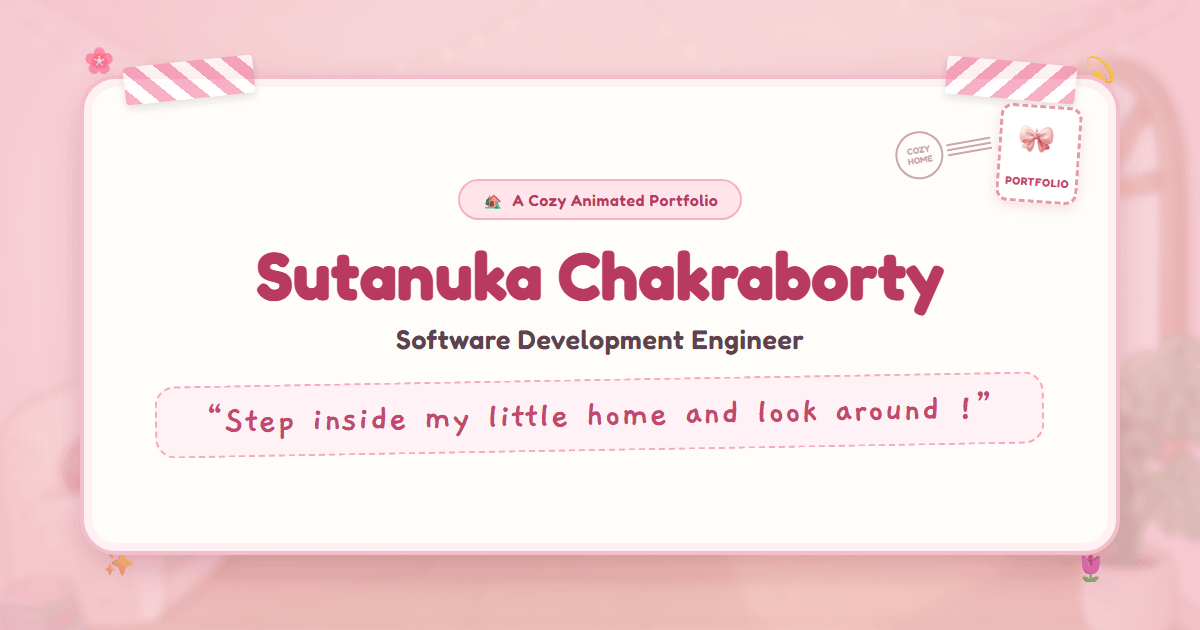
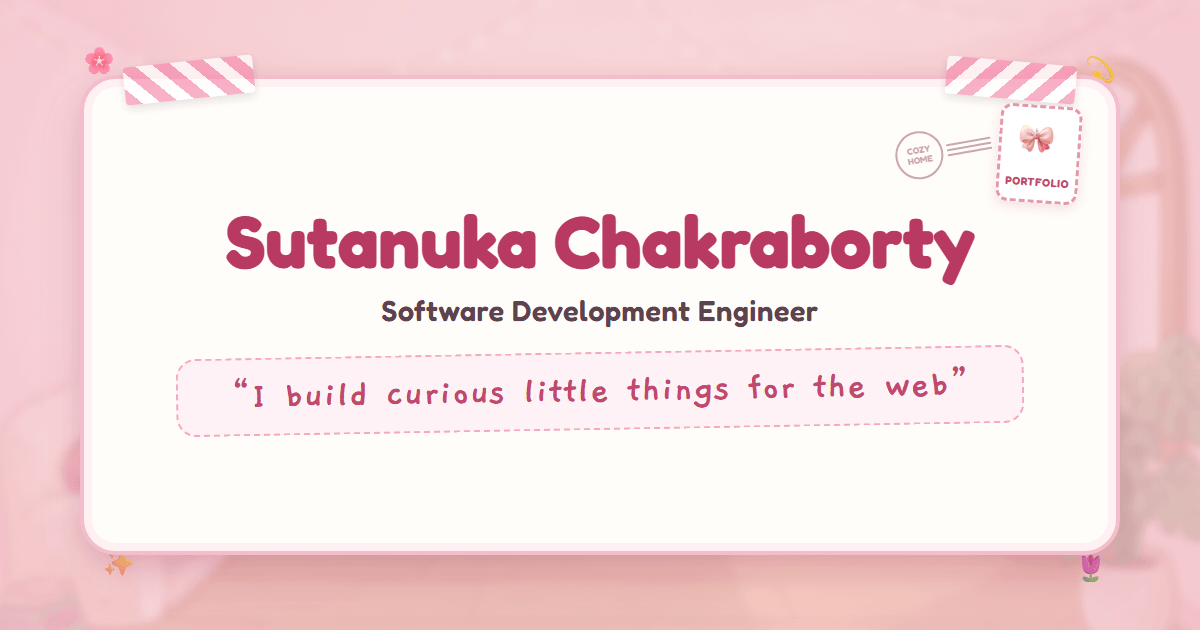
Update OG image: remove top pill tag and update quote to 'I build curious little things for the web'

Changed region(s): [[0.185, 0.2714, 0.8325, 0.573], [0.1542, 0.573, 0.8633, 0.6937], [0.1233, 0.6032, 0.1542, 0.6333]]

diff --git a/scripts/generate-og.js b/scripts/generate-og.js
@@ -186,55 +186,38 @@ async function generate() {
       border-radius: 1px;
     }
 
-    /* Tag / Eyebrow */
-    .tagline-pill {
-      display: inline-flex;
-      align-items: center;
-      gap: 8px;
-      background: #FFE4EC;
-      color: #B83A62;
-      font-size: 16px;
-      font-weight: 600;
-      padding: 8px 22px;
-      border-radius: 999px;
-      border: 2px solid #F9AFC4;
-      margin-bottom: 18px;
-      letter-spacing: 0.5px;
-    }
-
     /* Main Name */
     .name-title {
-      font-size: 68px;
+      font-size: 74px;
       font-weight: 700;
       color: #B83A62;
       letter-spacing: -0.5px;
       line-height: 1.1;
-      margin-bottom: 10px;
+      margin-bottom: 12px;
       text-shadow: 0 2px 4px rgba(255, 255, 255, 0.8);
     }
 
     /* Role */
     .role-title {
-      font-size: 27px;
+      font-size: 29px;
       font-weight: 600;
       color: #5D434D;
       letter-spacing: 0.5px;
-      margin-bottom: 16px;
+      margin-bottom: 24px;
     }
 
     /* Gaegu handwritten note */
     .handwritten-note {
       font-family: 'Gaegu', cursive;
-      font-size: 38px;
+      font-size: 40px;
       font-weight: 700;
       color: #C2486E;
       background: #FFF2F6;
-      padding: 10px 36px;
+      padding: 12px 40px;
       border-radius: 20px;
       border: 2px dashed #F5A9BD;
       transform: rotate(-1deg);
       display: inline-block;
-      margin-top: 8px;
       letter-spacing: 0.5px;
     }
   </style>
@@ -266,16 +249,11 @@ async function generate() {
       <span class="post-stamp-label">PORTFOLIO</span>
     </div>
 
-    <div class="tagline-pill">
-      <span>🏡</span>
-      <span>A Cozy Animated Portfolio</span>
-    </div>
-
     <h1 class="name-title">Sutanuka Chakraborty</h1>
     <h2 class="role-title">Software Development Engineer</h2>
 
     <div class="handwritten-note">
-      “Step inside my little home and look around !”
+      “I build curious little things for the web”
     </div>
   </div>
 </body>
@@ -292,15 +270,24 @@ async function generate() {
   execSync(cmd, { stdio: 'inherit' });
 
   // Now optimize to public/assets/og/og-image.png under 300KB
-  const targetOgPath = path.resolve('public/assets/og/og-image.png');
+  const targetOgPngPath = path.resolve('public/assets/og/og-image.png');
   await sharp(rawScreenshotPath)
     .resize(1200, 630)
     .png({ quality: 90, compressionLevel: 9 })
-    .toFile(targetOgPath);
+    .toFile(targetOgPngPath);
 
-  const stats = fs.statSync(targetOgPath);
-  console.log(`Generated OG Image at ${targetOgPath}`);
-  console.log(`File size: ${(stats.size / 1024).toFixed(2)} KB (WhatsApp requirement: <300 KB)`);
+  // Also output high-performance JPEG
+  const targetOgJpgPath = path.resolve('public/assets/og/og-image.jpg');
+  await sharp(rawScreenshotPath)
+    .resize(1200, 630)
+    .jpeg({ quality: 92, mozjpeg: true })
+    .toFile(targetOgJpgPath);
+
+  const pngStats = fs.statSync(targetOgPngPath);
+  const jpgStats = fs.statSync(targetOgJpgPath);
+  console.log(`Generated OG Images:`);
+  console.log(`PNG: ${(pngStats.size / 1024).toFixed(2)} KB`);
+  console.log(`JPG: ${(jpgStats.size / 1024).toFixed(2)} KB`);
 }
 
 generate().catch(console.error);

diff --git a/scripts/og-template.html b/scripts/og-template.html
@@ -171,55 +171,38 @@
       border-radius: 1px;
     }
 
-    /* Tag / Eyebrow */
-    .tagline-pill {
-      display: inline-flex;
-      align-items: center;
-      gap: 8px;
-      background: #FFE4EC;
-      color: #B83A62;
-      font-size: 16px;
-      font-weight: 600;
-      padding: 8px 22px;
-      border-radius: 999px;
-      border: 2px solid #F9AFC4;
-      margin-bottom: 18px;
-      letter-spacing: 0.5px;
-    }
-
     /* Main Name */
     .name-title {
-      font-size: 68px;
+      font-size: 74px;
       font-weight: 700;
       color: #B83A62;
       letter-spacing: -0.5px;
       line-height: 1.1;
-      margin-bottom: 10px;
+      margin-bottom: 12px;
       text-shadow: 0 2px 4px rgba(255, 255, 255, 0.8);
     }
 
     /* Role */
     .role-title {
-      font-size: 27px;
+      font-size: 29px;
       font-weight: 600;
       color: #5D434D;
       letter-spacing: 0.5px;
-      margin-bottom: 16px;
+      margin-bottom: 24px;
     }
 
     /* Gaegu handwritten note */
     .handwritten-note {
       font-family: 'Gaegu', cursive;
-      font-size: 38px;
+      font-size: 40px;
       font-weight: 700;
       color: #C2486E;
       background: #FFF2F6;
-      padding: 10px 36px;
+      padding: 12px 40px;
       border-radius: 20px;
       border: 2px dashed #F5A9BD;
       transform: rotate(-1deg);
       display: inline-block;
-      margin-top: 8px;
       letter-spacing: 0.5px;
     }
   </style>
@@ -251,16 +234,11 @@
       <span class="post-stamp-label">PORTFOLIO</span>
     </div>
 
-    <div class="tagline-pill">
-      <span>🏡</span>
-      <span>A Cozy Animated Portfolio</span>
-    </div>
-
     <h1 class="name-title">Sutanuka Chakraborty</h1>
     <h2 class="role-title">Software Development Engineer</h2>
 
     <div class="handwritten-note">
-      “Step inside my little home and look around !”
+      “I build curious little things for the web”
     </div>
   </div>
 </body>
